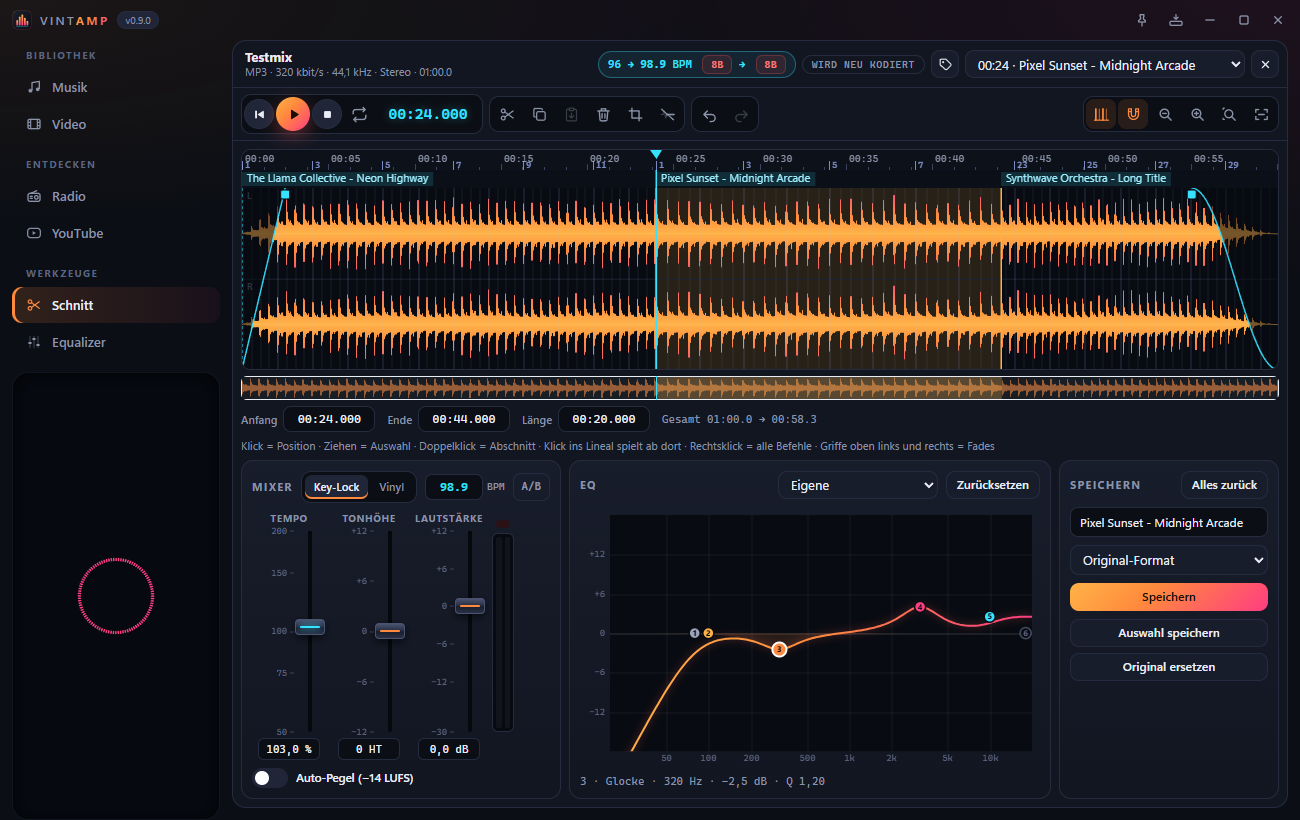
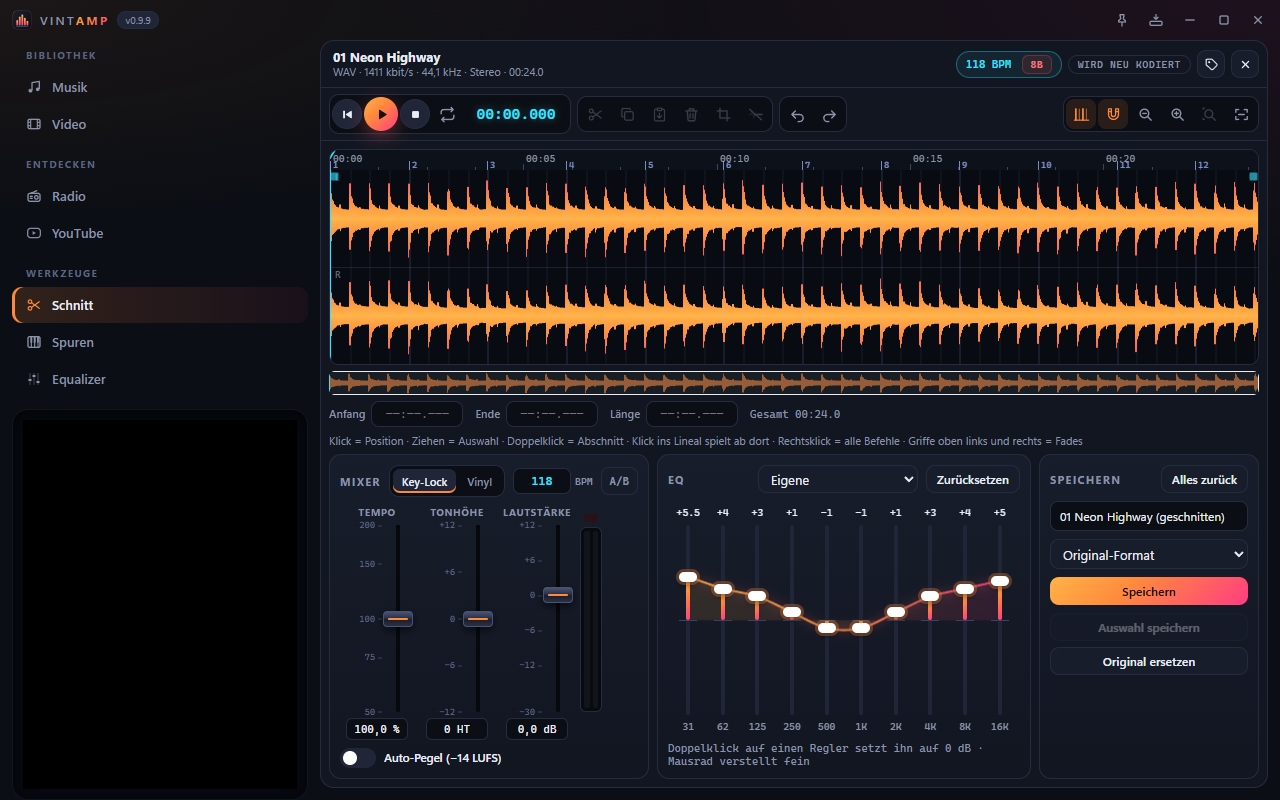
Docs: Schnitt mit 10-Band-EQ (v0.9.9)

diff --git a/README.md b/README.md
@@ -152,8 +152,8 @@ MIDI mit Spur-Ansicht, 10-Band-Equalizer, 16 Visualizer und Mini-Modus – im mo
 - **Mixer:** Fader für Tempo, Tonhöhe und Lautstärke mit Pegelanzeige. „Key-Lock“ ändert Tempo und Tonhöhe
   getrennt mit Rubber Band R3 (Studio-Algorithmus), „Vinyl“ koppelt beide wie ein Plattenspieler –
   ganz ohne Artefakte. A/B-Taste zum Vergleich mit dem Original, Auto-Pegel (−14 LUFS)
-- **Grafischer EQ:** parametrisch mit Hoch- und Tiefpass, Kuhschwänzen und Glocken – Punkte ziehen,
-  Mausrad für die Güte; Voreinstellungen wie „Rumpeln weg“ oder „Stimme klarer“
+- **EQ:** derselbe 10-Band-Equalizer wie im Bereich „Equalizer“ – gleiche Regler, gleiche Voreinstellungen
+  (Rock, Pop, Bass-Boost …), wird beim Speichern in die Datei eingerechnet
 - Alles hört man sofort beim Vorhören, die Auswahl auch in Schleife
 - Speichern als neue Datei oder anstelle des Originals (das alte wandert in den Papierkorb) – MP3, FLAC, WAV, Ogg;
   Tags und Cover werden übernommen

diff --git a/README.en.md b/README.en.md
@@ -154,8 +154,8 @@ MIDI with a track view, 10-band equalizer, 16 visualizers and a mini mode – in
 - **Mixer:** faders for tempo, pitch and volume with a level meter. “Key lock” changes tempo and pitch
   separately with Rubber Band R3 (studio algorithm), “Vinyl” links both like a turntable – free of
   any artifacts. A/B button to compare with the original, auto level (−14 LUFS)
-- **Graphic EQ:** parametric with high-pass and low-pass, shelves and bells – drag the points, mouse wheel
-  for Q; presets like “Remove rumble” or “Clearer voice”
+- **EQ:** the same 10-band equalizer as in the “Equalizer” section – same sliders, same presets
+  (Rock, Pop, Bass boost …), applied to the file when saving
 - You hear everything right away in the preview, the selection also in a loop
 - Save as a new file or in place of the original (the old one goes to the Recycle Bin) – MP3, FLAC, WAV, Ogg;
   tags and cover are kept
